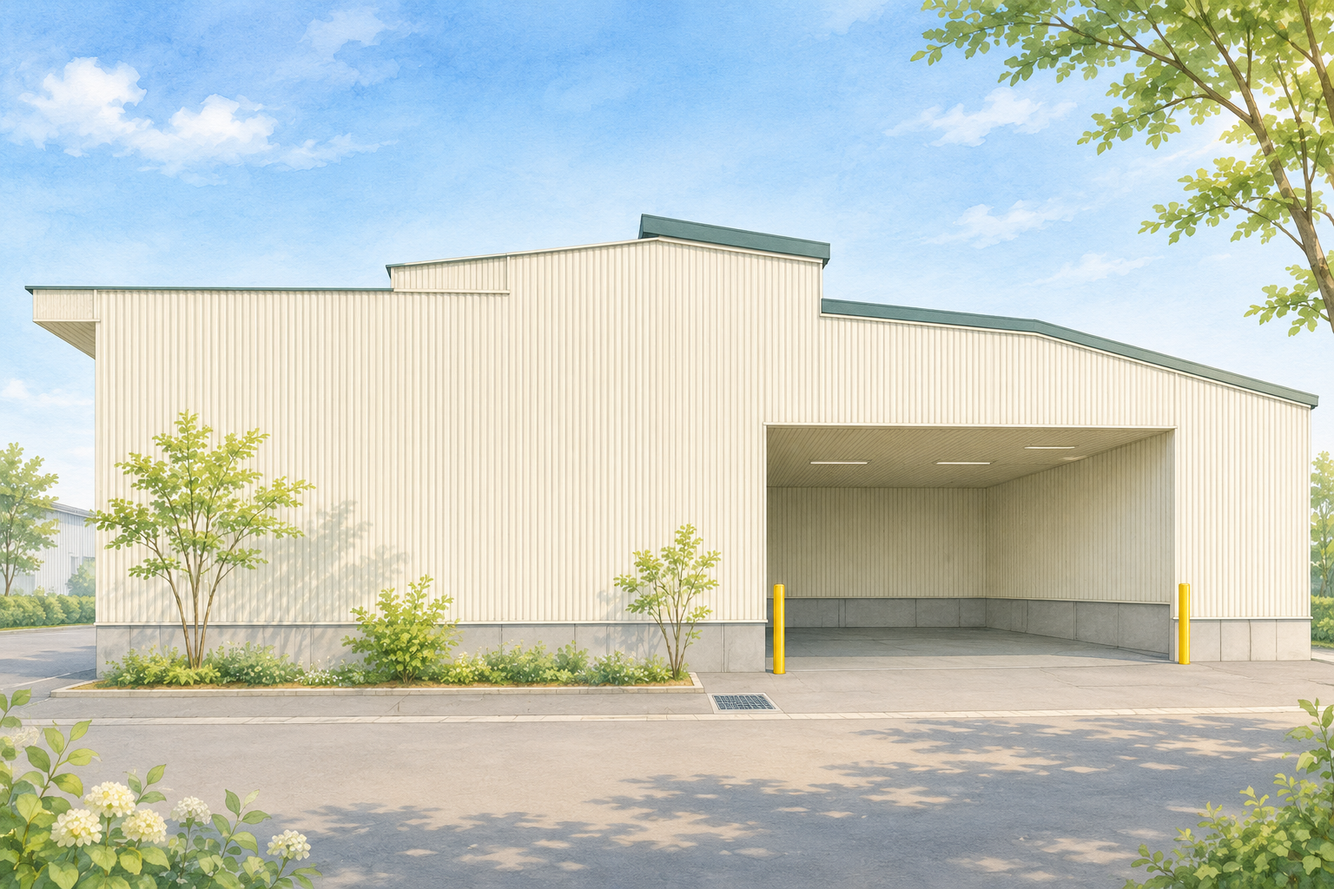
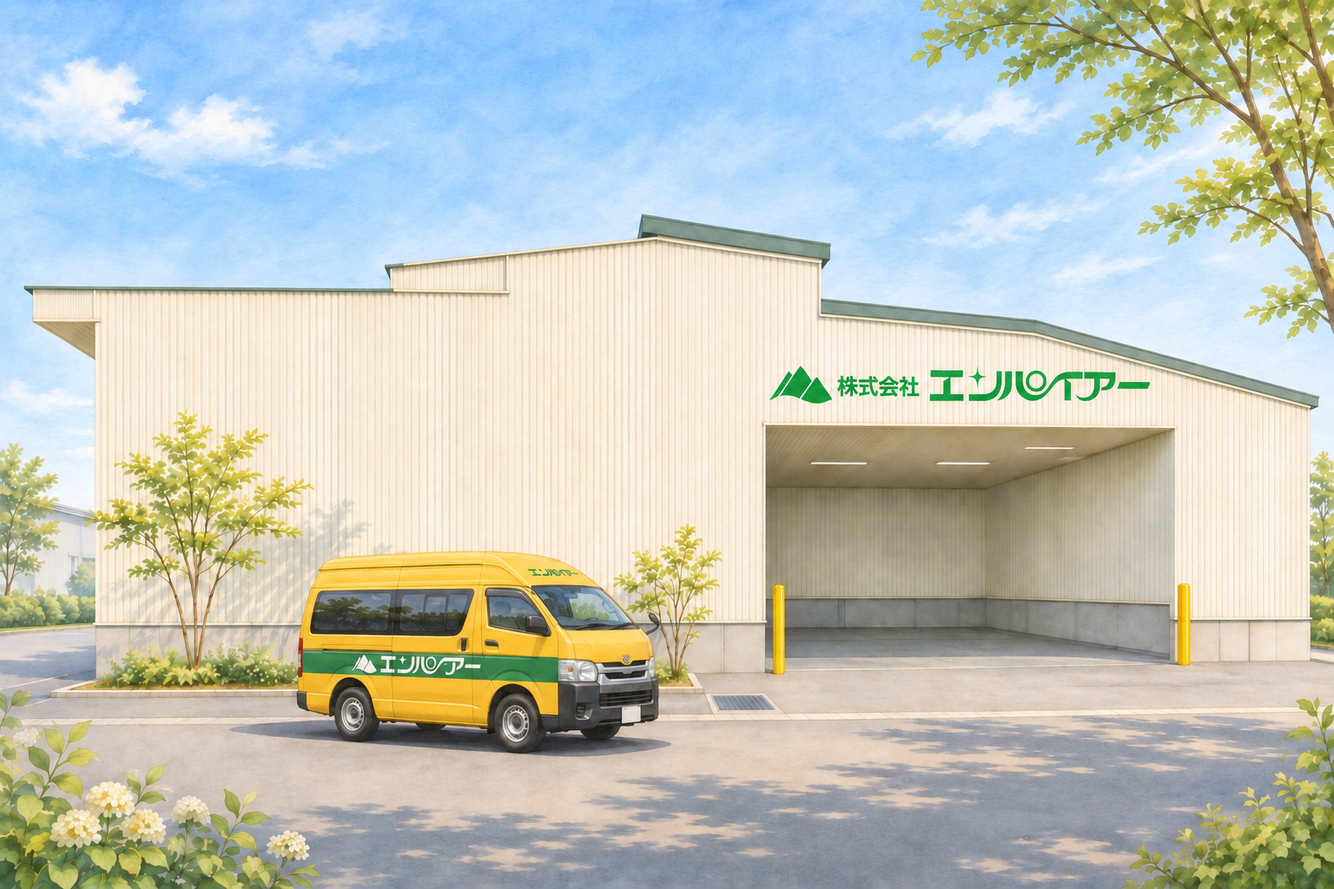
Restrict web request preview to administrators and update building illustration

diff --git a/index.html b/index.html
@@ -1,6 +1,6 @@
 <!doctype html>
 <html lang="ja"><head><meta charset="utf-8"><meta name="viewport" content="width=device-width,initial-scale=1"><title>指示書デスク</title><link rel="icon" href="/favicon.png"><link rel="stylesheet" href="/style.css"><link rel="stylesheet" href="/account.css"><link rel="stylesheet" href="/sheet.css"><link rel="stylesheet" href="/repair.css"><link rel="stylesheet" href="/display-mode.css"></head>
-<body><aside><div class="brand"><span id="brandtitle">指示書デスク</span><div class="brandrow" id="brandimages"><img class="brandlogo" src="/logo.jpg" alt="エンパイアー"><img class="mascots" src="/mascots.png" alt="きらりん、ふわりん"></div></div><div class="modes" id="modes"><button type="button" class="mode on" data-catalog="desk">指示書デスク</button><button type="button" class="mode" data-catalog="info">顧客・商品情報</button><button type="button" id="modestock" class="mode" data-catalog="stock">在庫管理</button></div><a href="/request-web" style="display:block;border:1px solid #85a38f;border-radius:8px;padding:7px 12px;margin:8px 0 16px;color:white;text-align:center;text-decoration:none;font-weight:bold">WEB依頼</a><div id="desknav"><div class="navgroup"><div class="navcaption">指示書の作成・確認</div><div class="navrow"><button type="button" class="nav active" data-view="all">指示書一覧</button><button type="button" class="nav" data-view="draft">下書き</button></div></div><div class="navgroup"><div class="navcaption">現場の作業・出荷</div><button type="button" class="nav" data-view="floor">現場の作業一覧</button><button type="button" class="nav" data-view="picking">ピッキングリスト</button><button type="button" class="nav" data-view="ship">出荷仕分け</button></div><div class="navgroup"><div class="navcaption">管理担当持込</div><div class="navrow"><button type="button" class="nav" data-view="carry-in">入力</button><button type="button" class="nav" data-view="carry-out">出力</button></div></div><div class="navgroup"><div class="navcaption">印刷</div><button type="button" class="nav" data-view="labels">宛名書き・管理票印刷</button></div></div><div id="infonav" hidden><button class="nav" data-view="placement">貼付け位置</button><button class="nav" data-view="shipinfo">出荷情報</button><button class="nav" data-view="nameinfo">ネーム情報<span class="exebadge" data-exebadge hidden>NEW</span></button></div><div id="stocknav" hidden><div class="navrow stocknav-top"><button type="button" class="nav active" data-stock-section="list">在庫一覧</button><button type="button" class="nav" data-stock-section="setup">登録・設定</button></div><div class="stocknav-secondary"><button type="button" class="nav stocknav-qrread" data-stock-section="qrread">QR読み取り</button><button type="button" class="nav stocknav-history" data-stock-section="history">在庫履歴</button><button type="button" class="nav stocknav-period" data-stock-section="period">期間入出荷集計</button><button type="button" class="nav stocknav-orders" data-stock-section="orders">発注</button><button type="button" class="nav stocknav-stocktake" data-stock-section="stocktake">棚卸</button><button type="button" class="nav stocknav-close" data-stock-section="close">月末締め</button></div></div><div id="kintainav" hidden><div class="kintai-entryrow"><button type="button" class="nav active" data-kintai-section="attendance">出勤簿</button><button type="button" class="nav" data-kintai-section="register">登録</button></div><div class="kintai-entryrow"><button type="button" class="nav" data-kintai-section="daily">日別</button><button type="button" class="nav" data-kintai-section="summary">月別集計</button></div><button type="button" class="nav" data-kintai-section="shift">シフト表</button><button type="button" class="nav" data-kintai-section="bihin">備品棚卸</button><button type="button" class="nav" data-kintai-section="crimp">圧着カウンター</button></div><div id="sidebarfooter"><div id="desksettings"><button type="button" class="nav" id="manageusers" hidden>利用者管理</button><button type="button" class="nav" id="repair-open" hidden>管理・修正</button><button type="button" class="nav" id="memo-open" hidden>構想メモ</button><button type="button" class="nav" id="olddata-open" hidden>旧データの取り出し方</button></div></div></aside>
+<body><aside><div class="brand"><span id="brandtitle">指示書デスク</span><div class="brandrow" id="brandimages"><img class="brandlogo" src="/logo.jpg" alt="エンパイアー"><img class="mascots" src="/mascots.png" alt="きらりん、ふわりん"></div></div><div class="modes" id="modes"><button type="button" class="mode on" data-catalog="desk">指示書デスク</button><button type="button" class="mode" data-catalog="info">顧客・商品情報</button><button type="button" id="modestock" class="mode" data-catalog="stock">在庫管理</button></div><a id="requestweb-open" hidden href="/request-web" style="border:1px solid #85a38f;border-radius:8px;padding:7px 12px;margin:8px 0 16px;color:white;text-align:center;text-decoration:none;font-weight:bold">WEB依頼</a><div id="desknav"><div class="navgroup"><div class="navcaption">指示書の作成・確認</div><div class="navrow"><button type="button" class="nav active" data-view="all">指示書一覧</button><button type="button" class="nav" data-view="draft">下書き</button></div></div><div class="navgroup"><div class="navcaption">現場の作業・出荷</div><button type="button" class="nav" data-view="floor">現場の作業一覧</button><button type="button" class="nav" data-view="picking">ピッキングリスト</button><button type="button" class="nav" data-view="ship">出荷仕分け</button></div><div class="navgroup"><div class="navcaption">管理担当持込</div><div class="navrow"><button type="button" class="nav" data-view="carry-in">入力</button><button type="button" class="nav" data-view="carry-out">出力</button></div></div><div class="navgroup"><div class="navcaption">印刷</div><button type="button" class="nav" data-view="labels">宛名書き・管理票印刷</button></div></div><div id="infonav" hidden><button class="nav" data-view="placement">貼付け位置</button><button class="nav" data-view="shipinfo">出荷情報</button><button class="nav" data-view="nameinfo">ネーム情報<span class="exebadge" data-exebadge hidden>NEW</span></button></div><div id="stocknav" hidden><div class="navrow stocknav-top"><button type="button" class="nav active" data-stock-section="list">在庫一覧</button><button type="button" class="nav" data-stock-section="setup">登録・設定</button></div><div class="stocknav-secondary"><button type="button" class="nav stocknav-qrread" data-stock-section="qrread">QR読み取り</button><button type="button" class="nav stocknav-history" data-stock-section="history">在庫履歴</button><button type="button" class="nav stocknav-period" data-stock-section="period">期間入出荷集計</button><button type="button" class="nav stocknav-orders" data-stock-section="orders">発注</button><button type="button" class="nav stocknav-stocktake" data-stock-section="stocktake">棚卸</button><button type="button" class="nav stocknav-close" data-stock-section="close">月末締め</button></div></div><div id="kintainav" hidden><div class="kintai-entryrow"><button type="button" class="nav active" data-kintai-section="attendance">出勤簿</button><button type="button" class="nav" data-kintai-section="register">登録</button></div><div class="kintai-entryrow"><button type="button" class="nav" data-kintai-section="daily">日別</button><button type="button" class="nav" data-kintai-section="summary">月別集計</button></div><button type="button" class="nav" data-kintai-section="shift">シフト表</button><button type="button" class="nav" data-kintai-section="bihin">備品棚卸</button><button type="button" class="nav" data-kintai-section="crimp">圧着カウンター</button></div><div id="sidebarfooter"><div id="desksettings"><button type="button" class="nav" id="manageusers" hidden>利用者管理</button><button type="button" class="nav" id="repair-open" hidden>管理・修正</button><button type="button" class="nav" id="memo-open" hidden>構想メモ</button><button type="button" class="nav" id="olddata-open" hidden>旧データの取り出し方</button></div></div></aside>
 <main><section id="stockdesk" hidden><iframe id="stockframe" title="在庫管理"></iframe></section><header><div><h1 id="title">指示書一覧</h1></div><div class="headactions"><button type="button" id="openshipped" hidden>発送済の指示書</button><button type="button" id="opendone" hidden>完了した指示書</button><button type="button" id="closedone" hidden>一覧に戻る</button><button class="primary" id="new">指示書を作成</button><button type="button" class="primary" id="placementnew" hidden>新しく登録</button><button type="button" class="primary" id="shipinfonew" hidden>新しく登録</button><button type="button" class="primary" id="namenew" hidden>新しく登録</button></div></header><section class="stats" id="stats"></section><details id="statsnote" class="list-note statsnote"><summary>件数の見方</summary><p class="list-note-body"></p></details><section id="pickingdesk" hidden><iframe id="pickingframe" title="ピッキングリスト"></iframe></section><section id="nameinfodesk" hidden><p class="namelead">統合ネームラベルの登録を、形式ごとに確認します。商品コードとは結び付けていません。見本の氏名と番号は架空です。</p><form id="namesearch" class="namefilters"><label>顧客<input id="namecustomer" maxlength="80" placeholder="顧客名"></label><button class="primary" type="submit">検索</button><button type="button" id="namedeletedopen" hidden>削除済み</button><button type="button" id="nameexeopen">統合ネームラベル（exe）</button></form><p id="namestatus"></p><div class="namepanes"><div id="namecustomers"></div><div id="nameformats"><p class="nameempty">左の顧客を選ぶと、形式がここに出ます。</p></div></div></section><dialog id="namedetail"><div class="dialoghead"><div><span id="namenumber"></span><h2 id="nametitle">ネーム形式</h2></div><button type="button" id="nameeditbtn" hidden>修正</button><button type="button" class="danger" id="namedeleteformat" hidden>この形式を削除</button><button type="button" class="quiet" id="nameclose">閉じる ×</button></div><div class="dialogbody" id="namebody"></div></dialog><dialog id="nameexe"><div class="dialoghead"><div><h2>統合ネームラベル（Windows版 exe）</h2><p class="namewarn">最新の1件だけを配布します。アップロードと差し替えは主管理者だけです。</p></div><button type="button" class="quiet" id="nameexeclose">閉じる ×</button></div><div class="dialogbody" id="nameexebody"><div id="nameexeinfo"></div><div id="nameexenotesview" class="exenotesview" hidden><h3>更新内容</h3><div class="exenotes" id="nameexenotescurrent"></div></div><p><button type="button" class="primary" id="nameexedownload" hidden>ダウンロード</button></p><details id="nameexehistorywrap" class="exehistory" hidden><summary>更新履歴</summary><div id="nameexehistory"></div></details><div id="nameexeupload" hidden><h3>exeをアップロード（差し替え）</h3><input id="nameexefile" type="file" accept=".exe"><label class="exenoteslabel">更新内容（任意・新しいexeに付きます）<textarea id="nameexeuploadnotes" rows="5" maxlength="4000" placeholder="・修正した点&#10;・追加した機能"></textarea></label><button type="button" id="nameexesend">アップロード</button><p id="nameexestatus" role="status"></p><p id="nameexedrop" class="namewarn"></p><div id="nameexenotesedit" hidden><h3>今の版の更新内容を編集</h3><p class="namewarn">置き場フォルダから自動取込したexeにも、ここで更新内容を付けられます。保存しても更新のお知らせは出し直しません。</p><textarea id="nameexenotes" rows="6" maxlength="4000"></textarea><button type="button" id="nameexenotessave">更新内容を保存</button><p id="nameexenotesstatus" role="status"></p></div><div id="nameexeusers"></div></div></div></dialog><dialog id="namedeleted"><div class="dialoghead"><div><h2>削除済みのネーム情報</h2><p class="namewarn">主管理者だけが確認・復元できます。見本画像ファイルは残っています。</p></div><button type="button" class="quiet" id="namedeletedclose">閉じる ×</button></div><div class="dialogbody" id="namedeletedbody"></div></dialog><dialog id="nameform"><form id="nameedit"><div class="dialoghead"><div><span id="nameformnumber"></span><h2 id="nameformtitle">ネーム情報を登録</h2></div><button type="button" class="quiet" id="nameformclose">閉じる ×</button></div><div class="dialogbody"><p class="namewarn">登録と修正は主管理者だけです。統合ネームラベル本体には反映されません。新しい形式の書体の記載はHG丸ゴシック（太字）です。見本は、選んだ画像を登録します。画像を選んで保存すると、その形式の見本はこの1枚になります。</p><div id="nameformerror" role="alert"></div><div class="nameeditgrid"><label>顧客名<input id="nameformcustomer" maxlength="80" required></label><label>読み<input id="nameformreading" maxlength="80"></label><label>形式名<input id="nameformformat" maxlength="80" required></label><label>サイズ<select id="nameformsize"><option value="small">小</option><option value="large">大</option><option value="unknown">サイズ未指定</option><option value="blank">無地</option></select></label><label>幅 mm<input id="nameformwidth" type="number" min="1" max="200"></label><label>高さ mm<input id="nameformheight" type="number" min="1" max="200"></label><label>貼付け位置<input id="nameformplacement" maxlength="120"></label><label>色の条件の名前<input id="nameformcolorcaption" maxlength="40" placeholder="区分、部署など"></label><label class="nameeditwide">見出し・印字<textarea id="nameformheading" maxlength="400" rows="3"></textarea></label><label class="nameeditwide">用紙の色<textarea id="nameformcolors" rows="4" placeholder="日中 緑&#10;夜間 青&#10;色だけ書くと指定色です"></textarea></label><label class="nameeditwide">部署<textarea id="nameformdepartments" rows="3" placeholder="1行に1部署"></textarea></label><label class="nameeditwide">注意・例外<textarea id="nameformnote" maxlength="400" rows="3"></textarea></label><label class="nameeditwide">要確認<textarea id="nameformpending" maxlength="200" rows="2" placeholder="未確定の内容があるときだけ"></textarea></label><label class="nameeditwide">見本画像<input id="nameformimage" type="file" accept="image/png,image/jpeg,image/webp"></label><p id="nameformfont" class="namewarn"></p></div></div><div class="dialogactions"><button class="primary" type="submit" id="nameformsave">保存</button></div></form></dialog><section id="placementdesk" hidden><form id="placementsearch" class="placementfilters"><label>顧客<span class="placementfind"><input id="placementcustomer" autocomplete="off" placeholder="顧客名"><button type="button" class="placementclear" hidden aria-label="顧客名を消す">×</button><div class="placementpicks" hidden></div></span></label><button class="primary" type="submit">検索</button><button type="button" class="quiet" id="placementboardopen">修正依頼</button></form><datalist id="placementcustomers"></datalist><datalist id="placementparts"></datalist><p id="placementstatus" class="duehint"></p><div id="placementgrid" class="placementgrid"></div><button type="button" id="placementmore" hidden>さらに表示</button><p class="duehint">一覧は縮小画像です。画像を押すと大きな画像を開きます。</p></section><section id="shipinfodesk" hidden><form id="shipinfosearch" class="shipinfofilters"><label>顧客<span class="shipinfofind"><input id="shipinfocustomer" autocomplete="off" placeholder="顧客名"><button type="button" class="placementclear" hidden aria-label="顧客名を消す">×</button><div class="placementpicks" hidden></div></span></label><button class="primary" type="submit">検索</button><button type="button" id="shipinfoexport" hidden>Excelで書き出す</button><button type="button" id="shipinfoimport" hidden>Excelから取り込む</button></form><details class="list-note"><summary>Excel取込の注意</summary><p class="list-note-body">Excelの1行目は見出しです。登録番号がある行は修正、空欄は追加です。ファイルにない行は消えません。</p></details><p id="shipinfostatus" class="duehint"></p><input id="shipinfofile" type="file" accept=".xlsx,application/vnd.openxmlformats-officedocument.spreadsheetml.sheet" hidden><div class="list-stage" id="shipinfoliststage"><div class="shipinfowrap"><table><thead><tr><th>顧客名</th><th>出荷方法</th><th>出荷形態</th><th>出荷形態(マーク)</th><th>集配曜日</th><th>集配時間</th><th>集配号車</th><th>管理担当</th><th>営業担当</th><th>契約開始</th><th>契約終了</th><th></th></tr></thead><tbody id="shipinfobody"></tbody></table></div><div class="list-grid" id="shipinfolistgrid" hidden></div></div><button type="button" id="shipinfomore" hidden>さらに表示</button></section><section id="kintaidesk" hidden>
 <div id="kintaiattendance">
 <p class="kintailead">選んだ人の年度（2月〜翌1月）を、月ごとの行で表示します。元の出勤簿は変更しません。月の日付を押すと、その月シートの日別を開きます。取り込みは「登録」から行います。</p>

diff --git a/account.js b/account.js
@@ -4,8 +4,8 @@ const accountRoot=document.createElement('section');accountRoot.id='authscreen';
 const manageDialog=document.createElement('dialog');manageDialog.id='accounts';document.body.append(manageDialog);
 const secretDialog=document.createElement('dialog');secretDialog.id='secret';document.body.append(secretDialog);
 let accountMode='login';
-function clearDesk(){if(typeof resetAuthorPin==='function')resetAuthorPin();if(typeof resetRepair==='function')resetRepair();if(typeof DisplayMode!=='undefined'&&DisplayMode.resetCache)DisplayMode.resetCache();orders=[];view='all';$('#rows').innerHTML='';$('#stats').innerHTML='';$('#printarea').innerHTML='';const ship=$('#shipresult');if(ship){ship.textContent='';ship.className=''}const code=$('#shipcode');if(code)code.value='';const pickingFrame=$('#pickingframe');if(pickingFrame){pickingFrame.removeAttribute('src');try{pickingFrame.src='about:blank'}catch{}}if(typeof resetLabelCards==='function')resetLabelCards();for(const id of ['search','status','from','to','author']){const el=$('#'+id);if(el)el.value=''}document.querySelectorAll('.nav[data-view]').forEach(n=>{n.hidden=false;n.classList.toggle('active',n.dataset.view==='all')});if(typeof resetMemos==='function')resetMemos();document.querySelectorAll('#manageusers,#repair-open,#memo-open,#olddata-open,#markmanage').forEach(n=>{n.hidden=true;n.classList.remove('active')});document.querySelectorAll('#desknav .navgroup').forEach(g=>{g.hidden=false});if(typeof listChrome==='function')listChrome()}
-function applyRoleChrome(){const role=currentUser.role;const stockMode=document.querySelector('[data-catalog="stock"]');if(stockMode){const stockAllowed=role==='owner'||role==='warehouse'||!!currentUser.manage||!!currentUser.overview;stockMode.hidden=!stockAllowed;if(!stockAllowed&&document.body.classList.contains('catalog-stock')&&typeof showCatalog==='function')showCatalog('desk')}$('#new').hidden=role==='floor'||['floor2','floor3','warehouse'].includes(role);document.querySelector('[data-view="draft"]').hidden=role==='floor'||['floor2','floor3','warehouse'].includes(role);document.querySelector('[data-view="all"]').hidden=role==='floor'||['floor2','floor3','warehouse'].includes(role);document.querySelector('[data-view="floor"]').hidden=role==='sales'||['floor2','floor3','warehouse'].includes(role);const warehouse=role==='owner'||role==='floor';document.querySelector('[data-view="ship"]').hidden=!warehouse;document.querySelector('[data-view="picking"]').hidden=!warehouse;document.querySelector('[data-view="carry-in"]').hidden=role!=='floor'&&role!=='owner';document.querySelector('[data-view="carry-out"]').hidden=role!=='sales'&&role!=='owner';document.querySelector('[data-view="labels"]').hidden=role!=='floor'&&role!=='owner'&&!['floor2','floor3','warehouse'].includes(role);const manageNav=document.querySelector('#manageusers');if(manageNav)manageNav.hidden=!(currentUser.manage||role==='owner');const repairNav=document.querySelector('#repair-open');if(repairNav)repairNav.hidden=role!=='owner';const memoNav=document.querySelector('#memo-open');if(memoNav)memoNav.hidden=role!=='owner';const oldDataNav=document.querySelector('#olddata-open');if(oldDataNav)oldDataNav.hidden=role!=='owner';const markNav=document.querySelector('#markmanage');if(markNav){const kintaiAllowed=role==='floor3'||role==='owner'||!!currentUser.manage||!!currentUser.overview||!!currentUser.mark_kintai;markNav.hidden=!kintaiAllowed;if(!kintaiAllowed&&document.body.classList.contains('catalog-kintai')&&typeof showCatalog==='function')showCatalog('desk')}document.querySelectorAll('#desknav .navgroup').forEach(g=>{const items=[...g.querySelectorAll('.nav')];g.hidden=items.length>0&&items.every(n=>n.hidden)});const requested=new URLSearchParams(location.search).get('view');const requestedNav=requested?document.querySelector(`.nav[data-view="${requested}"]`):null;const currentNav=document.querySelector(`.nav[data-view="${view}"]`);if(requestedNav&&!requestedNav.hidden)view=requested;else if(!currentNav||currentNav.hidden)view=role==='floor'?'floor':['floor2','floor3'].includes(role)?'labels':'all';document.querySelectorAll('.nav[data-view]').forEach(n=>n.classList.toggle('active',n.dataset.view===view));document.querySelectorAll('#manageusers,#repair-open').forEach(n=>n.classList.remove('active'));listChrome();if(role==='warehouse'&&typeof showCatalog==='function'&&!document.body.classList.contains('catalog-stock'))showCatalog('stock')}
+function clearDesk(){if(typeof resetAuthorPin==='function')resetAuthorPin();if(typeof resetRepair==='function')resetRepair();if(typeof DisplayMode!=='undefined'&&DisplayMode.resetCache)DisplayMode.resetCache();orders=[];view='all';$('#rows').innerHTML='';$('#stats').innerHTML='';$('#printarea').innerHTML='';const ship=$('#shipresult');if(ship){ship.textContent='';ship.className=''}const code=$('#shipcode');if(code)code.value='';const pickingFrame=$('#pickingframe');if(pickingFrame){pickingFrame.removeAttribute('src');try{pickingFrame.src='about:blank'}catch{}}if(typeof resetLabelCards==='function')resetLabelCards();for(const id of ['search','status','from','to','author']){const el=$('#'+id);if(el)el.value=''}document.querySelectorAll('.nav[data-view]').forEach(n=>{n.hidden=false;n.classList.toggle('active',n.dataset.view==='all')});if(typeof resetMemos==='function')resetMemos();document.querySelectorAll('#manageusers,#repair-open,#memo-open,#olddata-open,#markmanage,#requestweb-open').forEach(n=>{n.hidden=true;if(n.id==='requestweb-open')n.style.display='none';n.classList.remove('active')});document.querySelectorAll('#desknav .navgroup').forEach(g=>{g.hidden=false});if(typeof listChrome==='function')listChrome()}
+function applyRoleChrome(){const role=currentUser.role;const requestWeb=document.querySelector('#requestweb-open');if(requestWeb){requestWeb.hidden=!(role==='owner'||!!currentUser.manage);requestWeb.style.display=requestWeb.hidden?'none':'block'}const stockMode=document.querySelector('[data-catalog="stock"]');if(stockMode){const stockAllowed=role==='owner'||role==='warehouse'||!!currentUser.manage||!!currentUser.overview;stockMode.hidden=!stockAllowed;if(!stockAllowed&&document.body.classList.contains('catalog-stock')&&typeof showCatalog==='function')showCatalog('desk')}$('#new').hidden=role==='floor'||['floor2','floor3','warehouse'].includes(role);document.querySelector('[data-view="draft"]').hidden=role==='floor'||['floor2','floor3','warehouse'].includes(role);document.querySelector('[data-view="all"]').hidden=role==='floor'||['floor2','floor3','warehouse'].includes(role);document.querySelector('[data-view="floor"]').hidden=role==='sales'||['floor2','floor3','warehouse'].includes(role);const warehouse=role==='owner'||role==='floor';document.querySelector('[data-view="ship"]').hidden=!warehouse;document.querySelector('[data-view="picking"]').hidden=!warehouse;document.querySelector('[data-view="carry-in"]').hidden=role!=='floor'&&role!=='owner';document.querySelector('[data-view="carry-out"]').hidden=role!=='sales'&&role!=='owner';document.querySelector('[data-view="labels"]').hidden=role!=='floor'&&role!=='owner'&&!['floor2','floor3','warehouse'].includes(role);const manageNav=document.querySelector('#manageusers');if(manageNav)manageNav.hidden=!(currentUser.manage||role==='owner');const repairNav=document.querySelector('#repair-open');if(repairNav)repairNav.hidden=role!=='owner';const memoNav=document.querySelector('#memo-open');if(memoNav)memoNav.hidden=role!=='owner';const oldDataNav=document.querySelector('#olddata-open');if(oldDataNav)oldDataNav.hidden=role!=='owner';const markNav=document.querySelector('#markmanage');if(markNav){const kintaiAllowed=role==='floor3'||role==='owner'||!!currentUser.manage||!!currentUser.overview||!!currentUser.mark_kintai;markNav.hidden=!kintaiAllowed;if(!kintaiAllowed&&document.body.classList.contains('catalog-kintai')&&typeof showCatalog==='function')showCatalog('desk')}document.querySelectorAll('#desknav .navgroup').forEach(g=>{const items=[...g.querySelectorAll('.nav')];g.hidden=items.length>0&&items.every(n=>n.hidden)});const requested=new URLSearchParams(location.search).get('view');const requestedNav=requested?document.querySelector(`.nav[data-view="${requested}"]`):null;const currentNav=document.querySelector(`.nav[data-view="${view}"]`);if(requestedNav&&!requestedNav.hidden)view=requested;else if(!currentNav||currentNav.hidden)view=role==='floor'?'floor':['floor2','floor3'].includes(role)?'labels':'all';document.querySelectorAll('.nav[data-view]').forEach(n=>n.classList.toggle('active',n.dataset.view===view));document.querySelectorAll('#manageusers,#repair-open').forEach(n=>n.classList.remove('active'));listChrome();if(role==='warehouse'&&typeof showCatalog==='function'&&!document.body.classList.contains('catalog-stock'))showCatalog('stock')}
 function authScreen(mode){
  accountMode=mode;document.body.classList.remove('authenticated');accountRoot.hidden=false;clearDesk();document.querySelectorAll('dialog[open]').forEach(d=>d.close());
  const setup=mode==='setup',change=mode==='change',recover=mode==='recover',gate=mode==='gate',gatesetup=mode==='gatesetup',second=gate||gatesetup;

diff --git a/server.py b/server.py
@@ -1072,6 +1072,13 @@ class Handler(AuthMixin, BaseHTTPRequestHandler):
         if path in ('/kintai', '/kintai/attendance', '/kintai/register', '/kintai/summary', '/kintai/daily'):
             path = '/'
         files={'/request-web':'request-web.html','/request-web.css':'request-web.css','/request-web.js':'request-web.js','/request-building.png':'request-building.png','/memos.js':'memos.js','/repair.js':'repair.js','/repair.css':'repair.css','/shipping.js':'shipping.js','/placement.js':'placement.js','/names.js':'names.js','/kintai.js':'kintai.js','/kintai-tot-attendance.js':'kintai-tot-attendance.js','/kintai-shift.js':'kintai-shift.js','/kintai-bihin.js':'kintai-bihin.js','/kintai-crimp.js':'kintai-crimp.js','/picking':'picking.html','/picking-history':'picking-history.html','/users':'users.html','/users.js':'users.js','/users.css':'users.css','/picking-history.js':'picking-history.js','/picking-board':'picking-board.html','/picking-board.js':'picking-board.js','/picking.js':'picking.js','/picking.css':'picking.css','/':'index.html','/app.js':'app.js','/style.css':'style.css','/account.js':'account.js','/account.css':'account.css','/box_ticket.js':'box_ticket.js','/fixed_label.js':'fixed_label.js','/handwrite_label.js':'handwrite_label.js','/label_paste.js':'label_paste.js','/sheet.js':'sheet.js','/sheet.css':'sheet.css','/display-mode.js':'display-mode.js','/display-mode.css':'display-mode.css','/logo.jpg':'logo.jpg','/favicon.png':'favicon.png','/mascots.png':'mascots.png'}
+        if path in ('/request-web', '/request-web.css', '/request-web.js', '/request-building.png'):
+            with connect() as c:
+                request_user = self.session_user(c)
+                if not request_user:
+                    return self.reply(401, 'ログインしてからWEB依頼を開いてください。', 'text/plain; charset=utf-8')
+                if request_user['role'] != 'owner' and not request_user['manage']:
+                    return self.reply(403, 'WEB依頼は主管理者・管理者だけが利用できます。', 'text/plain; charset=utf-8')
         if path in files:
             f=ROOT/files[path]
             return self.reply(200,f.read_bytes(),{'html':'text/html; charset=utf-8','js':'text/javascript; charset=utf-8','css':'text/css; charset=utf-8','jpg':'image/jpeg','png':'image/png'}[f.suffix[1:]])
